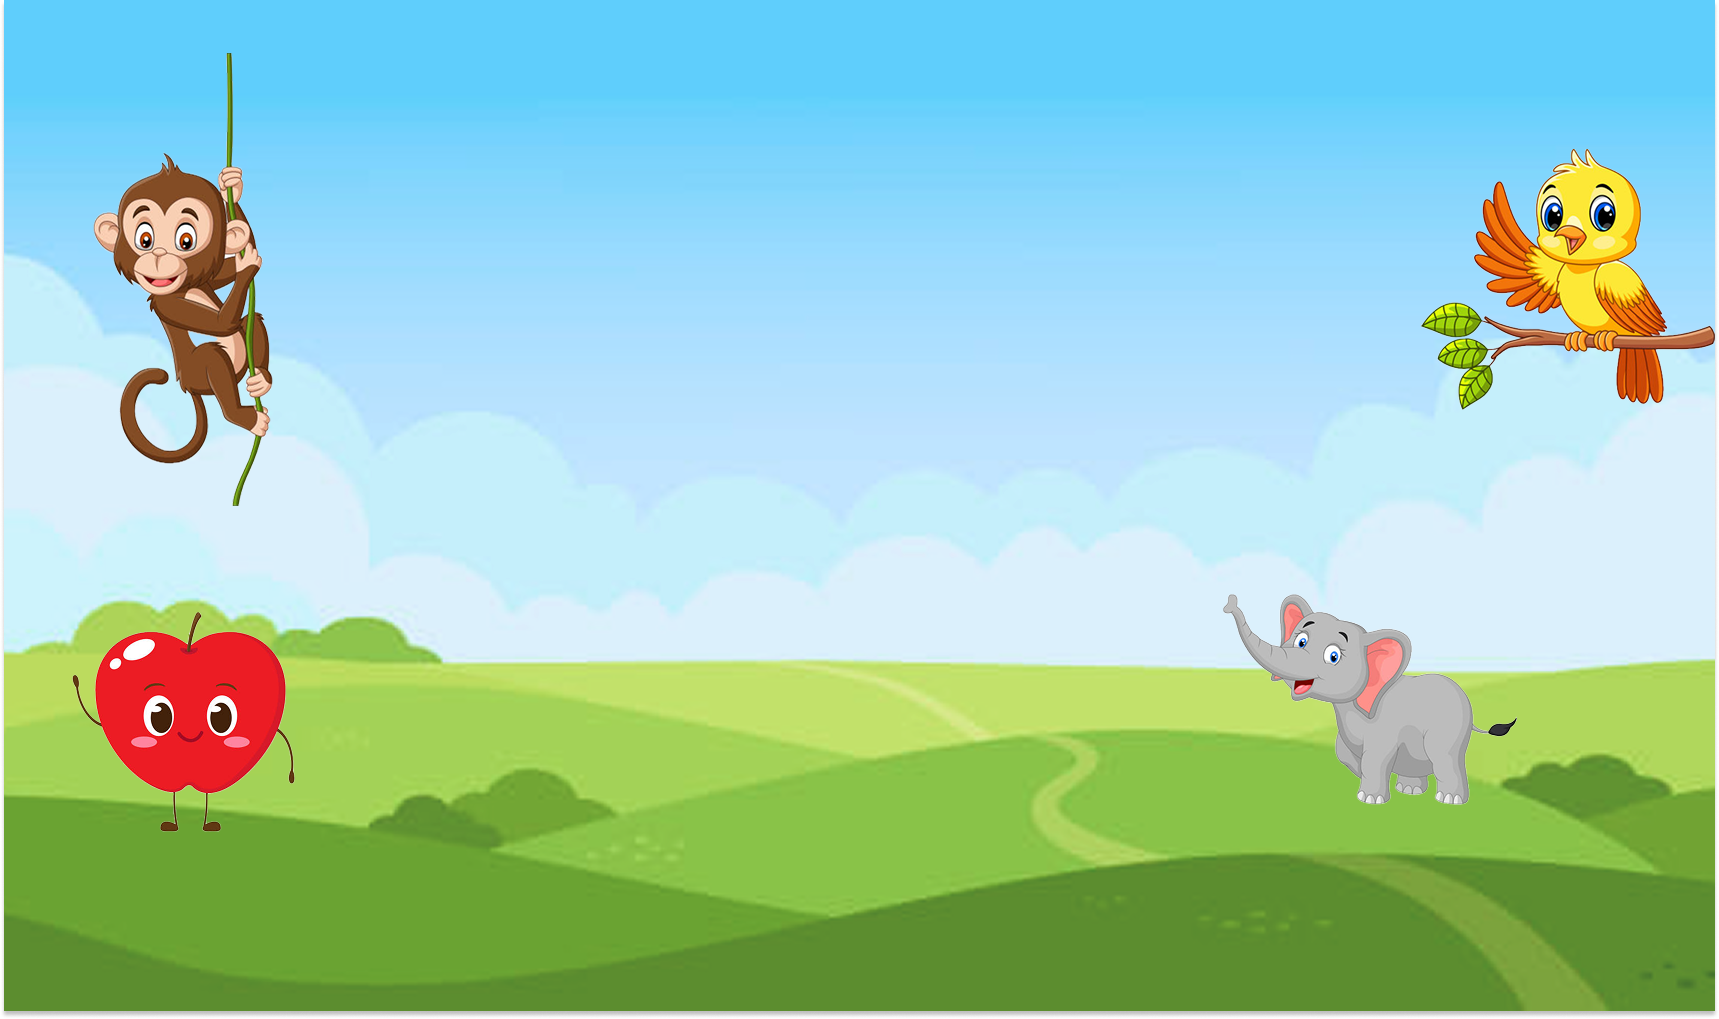
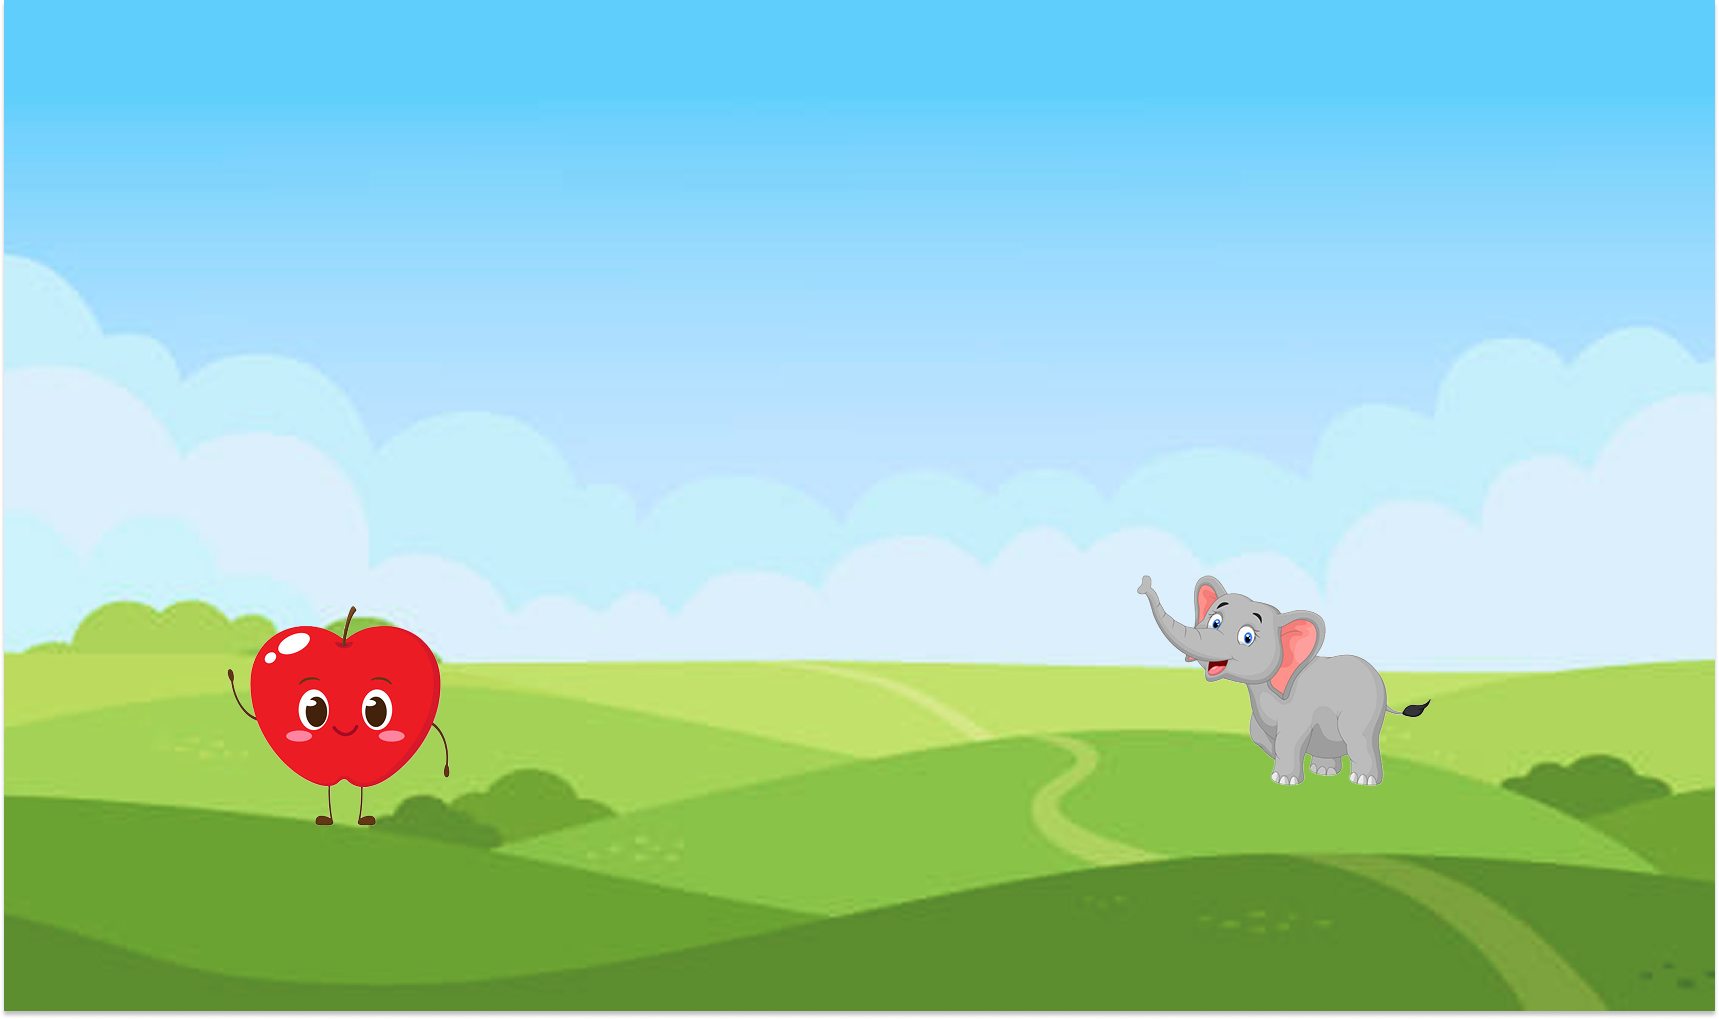
change css of home page

diff --git a/wgame/src/Home/home.jsx b/wgame/src/Home/home.jsx
@@ -1,6 +1,9 @@
 import React, { useEffect, useState } from "react";
 import { useNavigate } from "react-router-dom";
 import bgImage from "../assets/Group 22.png";
+import monkey from "../assets/monkey.png";
+import bird from "../assets/bird.png";
+import { motion } from "framer-motion";
 
 export default function Home() {
   const [isLogIn, setIsLogIn] = useState(false);
@@ -34,9 +37,85 @@ export default function Home() {
         color: "#000",
         textAlign: "center",
         position: "relative",
+        overflow: "hidden",
       }}
     >
-      <h1
+      <motion.img
+        src={monkey}
+        alt="monkey"
+        initial={{ y: -400, rotate: -20, opacity: 0 }}
+        animate={{
+          y: 0,
+          rotate: [0, -10, 10, -10, 10, 0],
+          opacity: 1,
+        }}
+        transition={{
+          y: {
+            duration: 2,
+            ease: "easeOut",
+            type: "spring",
+            stiffness: 70,
+            damping: 10,
+          },
+          rotate: {
+            delay: 1, // start swinging after falling
+            duration: 3,
+            ease: "easeInOut",
+            repeat: Infinity,
+            repeatType: "mirror",
+          },
+        }}
+        style={{
+          position: "absolute",
+          top: "0",
+          left: "4%",
+          width: "160px",
+          height: "auto",
+          zIndex: 5,
+          userSelect: "none",
+          transformOrigin: "top center",
+        }}
+      />
+
+      <motion.img
+        src={bird}
+        alt="bird"
+        initial={{ x: 400, y: -50, opacity: 0, scale: 0.8 }}
+        animate={{
+          x: 0,
+          y: 0,
+          opacity: 1,
+          scale: 1,
+        }}
+        transition={{
+          duration: 4,
+          delay: 1,
+          ease: [0.17, 0.67, 0.83, 0.67],
+          type: "spring",
+          stiffness: 60,
+          damping: 12,
+        }}
+        style={{
+          position: "absolute",
+          top: "8%",
+          right: "0%",
+          width: "280px",
+          height: "auto",
+          zIndex: 6,
+          userSelect: "none",
+        }}
+      />
+
+      <motion.h1
+        initial={{ opacity: 0, y: 80, scale: 0.8 }}
+        animate={{ opacity: 1, y: 0, scale: 1 }}
+        transition={{
+          duration: 2,
+          ease: [0.25, 0.1, 0.25, 1],
+          type: "spring",
+          stiffness: 60,
+          damping: 15,
+        }}
         style={{
           fontSize: "clamp(2rem, 7vw, 5rem)",
           fontFamily: "'Luckiest Guy', cursive",
@@ -44,13 +123,43 @@ export default function Home() {
           textShadow: "3px 3px #fff",
           marginBottom: "2rem",
           letterSpacing: "2px",
+          textAlign: "center",
+          zIndex: 10,
         }}
       >
-        Welcome to <br />
-        <span style={{ color: "#000", textDecoration: "underline" }}>
+        <motion.span
+          initial={{ opacity: 0, y: 40 }}
+          animate={{ opacity: 1, y: 0 }}
+          transition={{
+            duration: 2.5,
+            delay: 0.5,
+            ease: [0.22, 1, 0.36, 1],
+          }}
+          style={{ display: "inline-block" }}
+        >
+          Welcome to
+        </motion.span>
+        <br />
+        <motion.span
+          initial={{ opacity: 0, y: 60 }}
+          animate={{ opacity: 1, y: 0 }}
+          transition={{
+            duration: 4,
+            delay: 1.2,
+            type: "spring",
+            stiffness: 70,
+            damping: 12,
+          }}
+          style={{
+            color: "#000",
+            textDecoration: "underline",
+            display: "inline-block",
+          }}
+        >
           Catch ‘n Match
-        </span>
-      </h1>
+        </motion.span>
+      </motion.h1>
+
       <button
         onClick={handleStartGame}
         style={{
@@ -64,6 +173,7 @@ export default function Home() {
           cursor: "pointer",
           boxShadow: "0px 6px 15px rgba(0,0,0,0.3)",
           transition: "all 0.3s ease",
+          zIndex: 10,
         }}
         onMouseEnter={(e) => {
           e.currentTarget.style.transform = "scale(1.05)";
@@ -78,8 +188,9 @@ export default function Home() {
       >
         Let’s Get Started
       </button>
+
       {isLogIn ? (
-        <p className="mt-3 fs-7 " style={{ fontWeight: "2px" }}>
+        <p className="mt-3 fs-7 " style={{ fontWeight: "2px", zIndex: 10 }}>
           Now you are ready to play game!
         </p>
       ) : (
@@ -88,6 +199,7 @@ export default function Home() {
             marginTop: "20px",
             fontWeight: "600",
             color: "#333",
+            zIndex: 10,
           }}
         >
           Already have an account?{" "}
